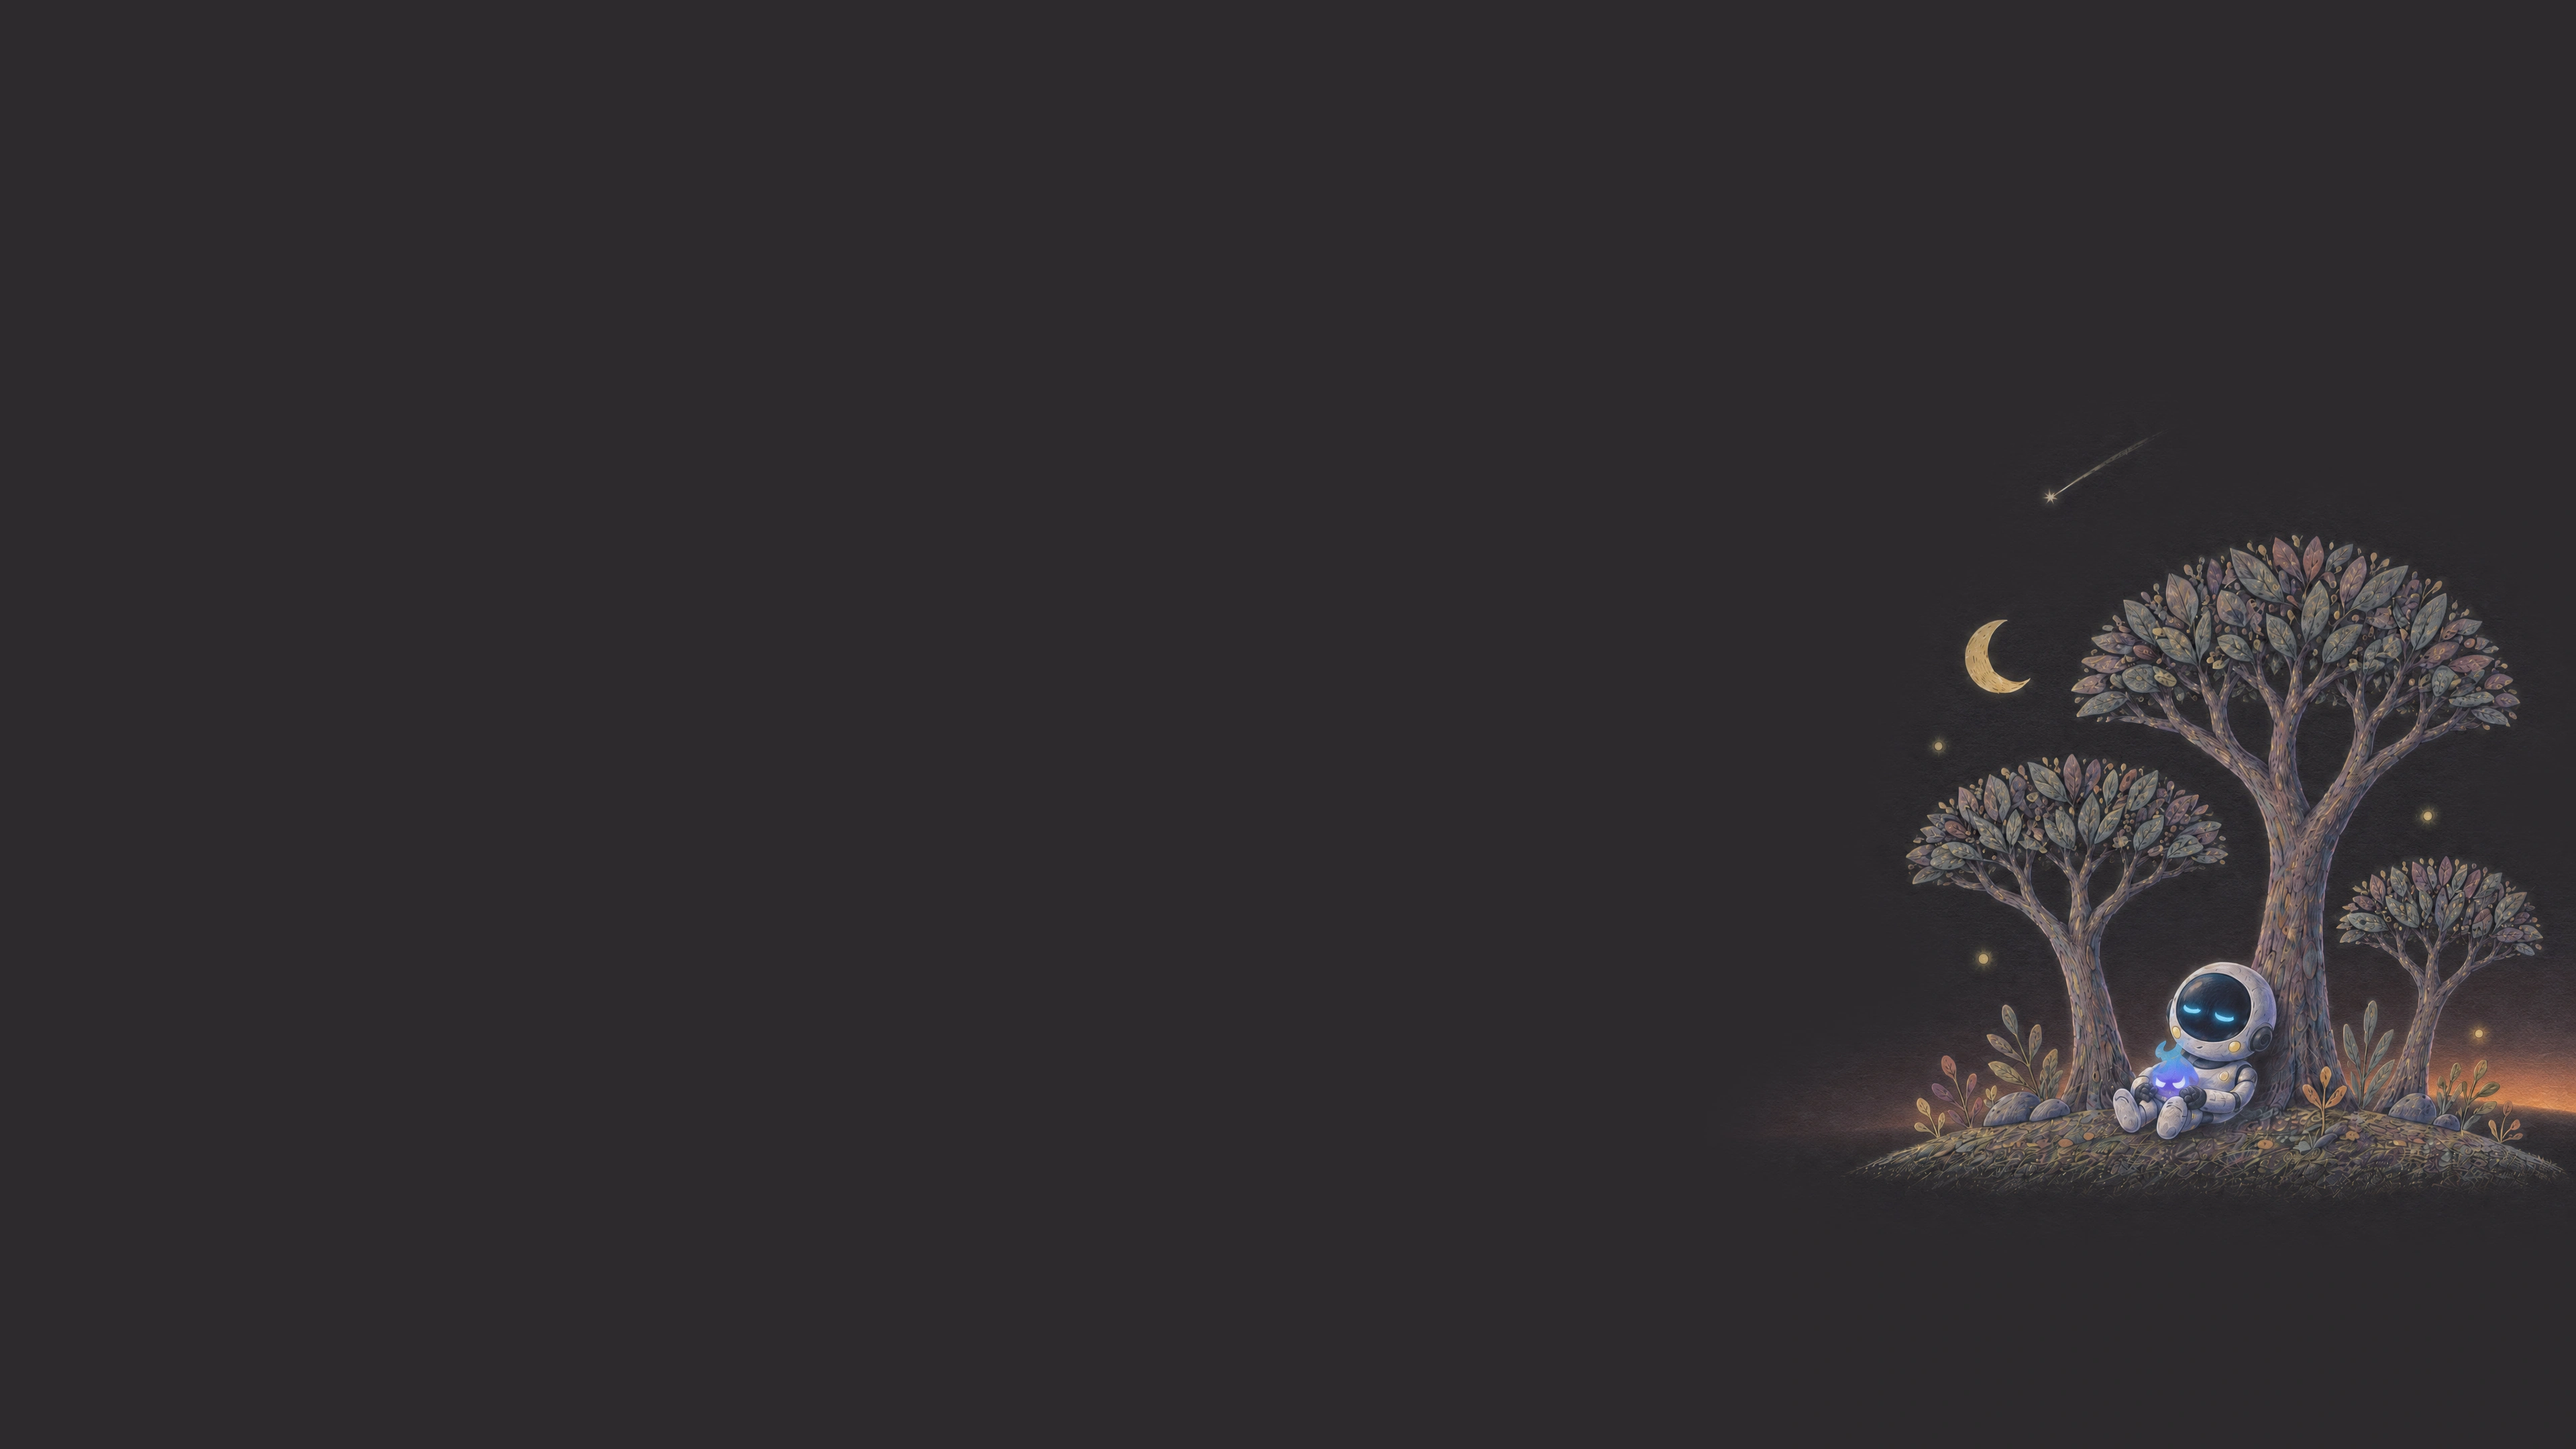
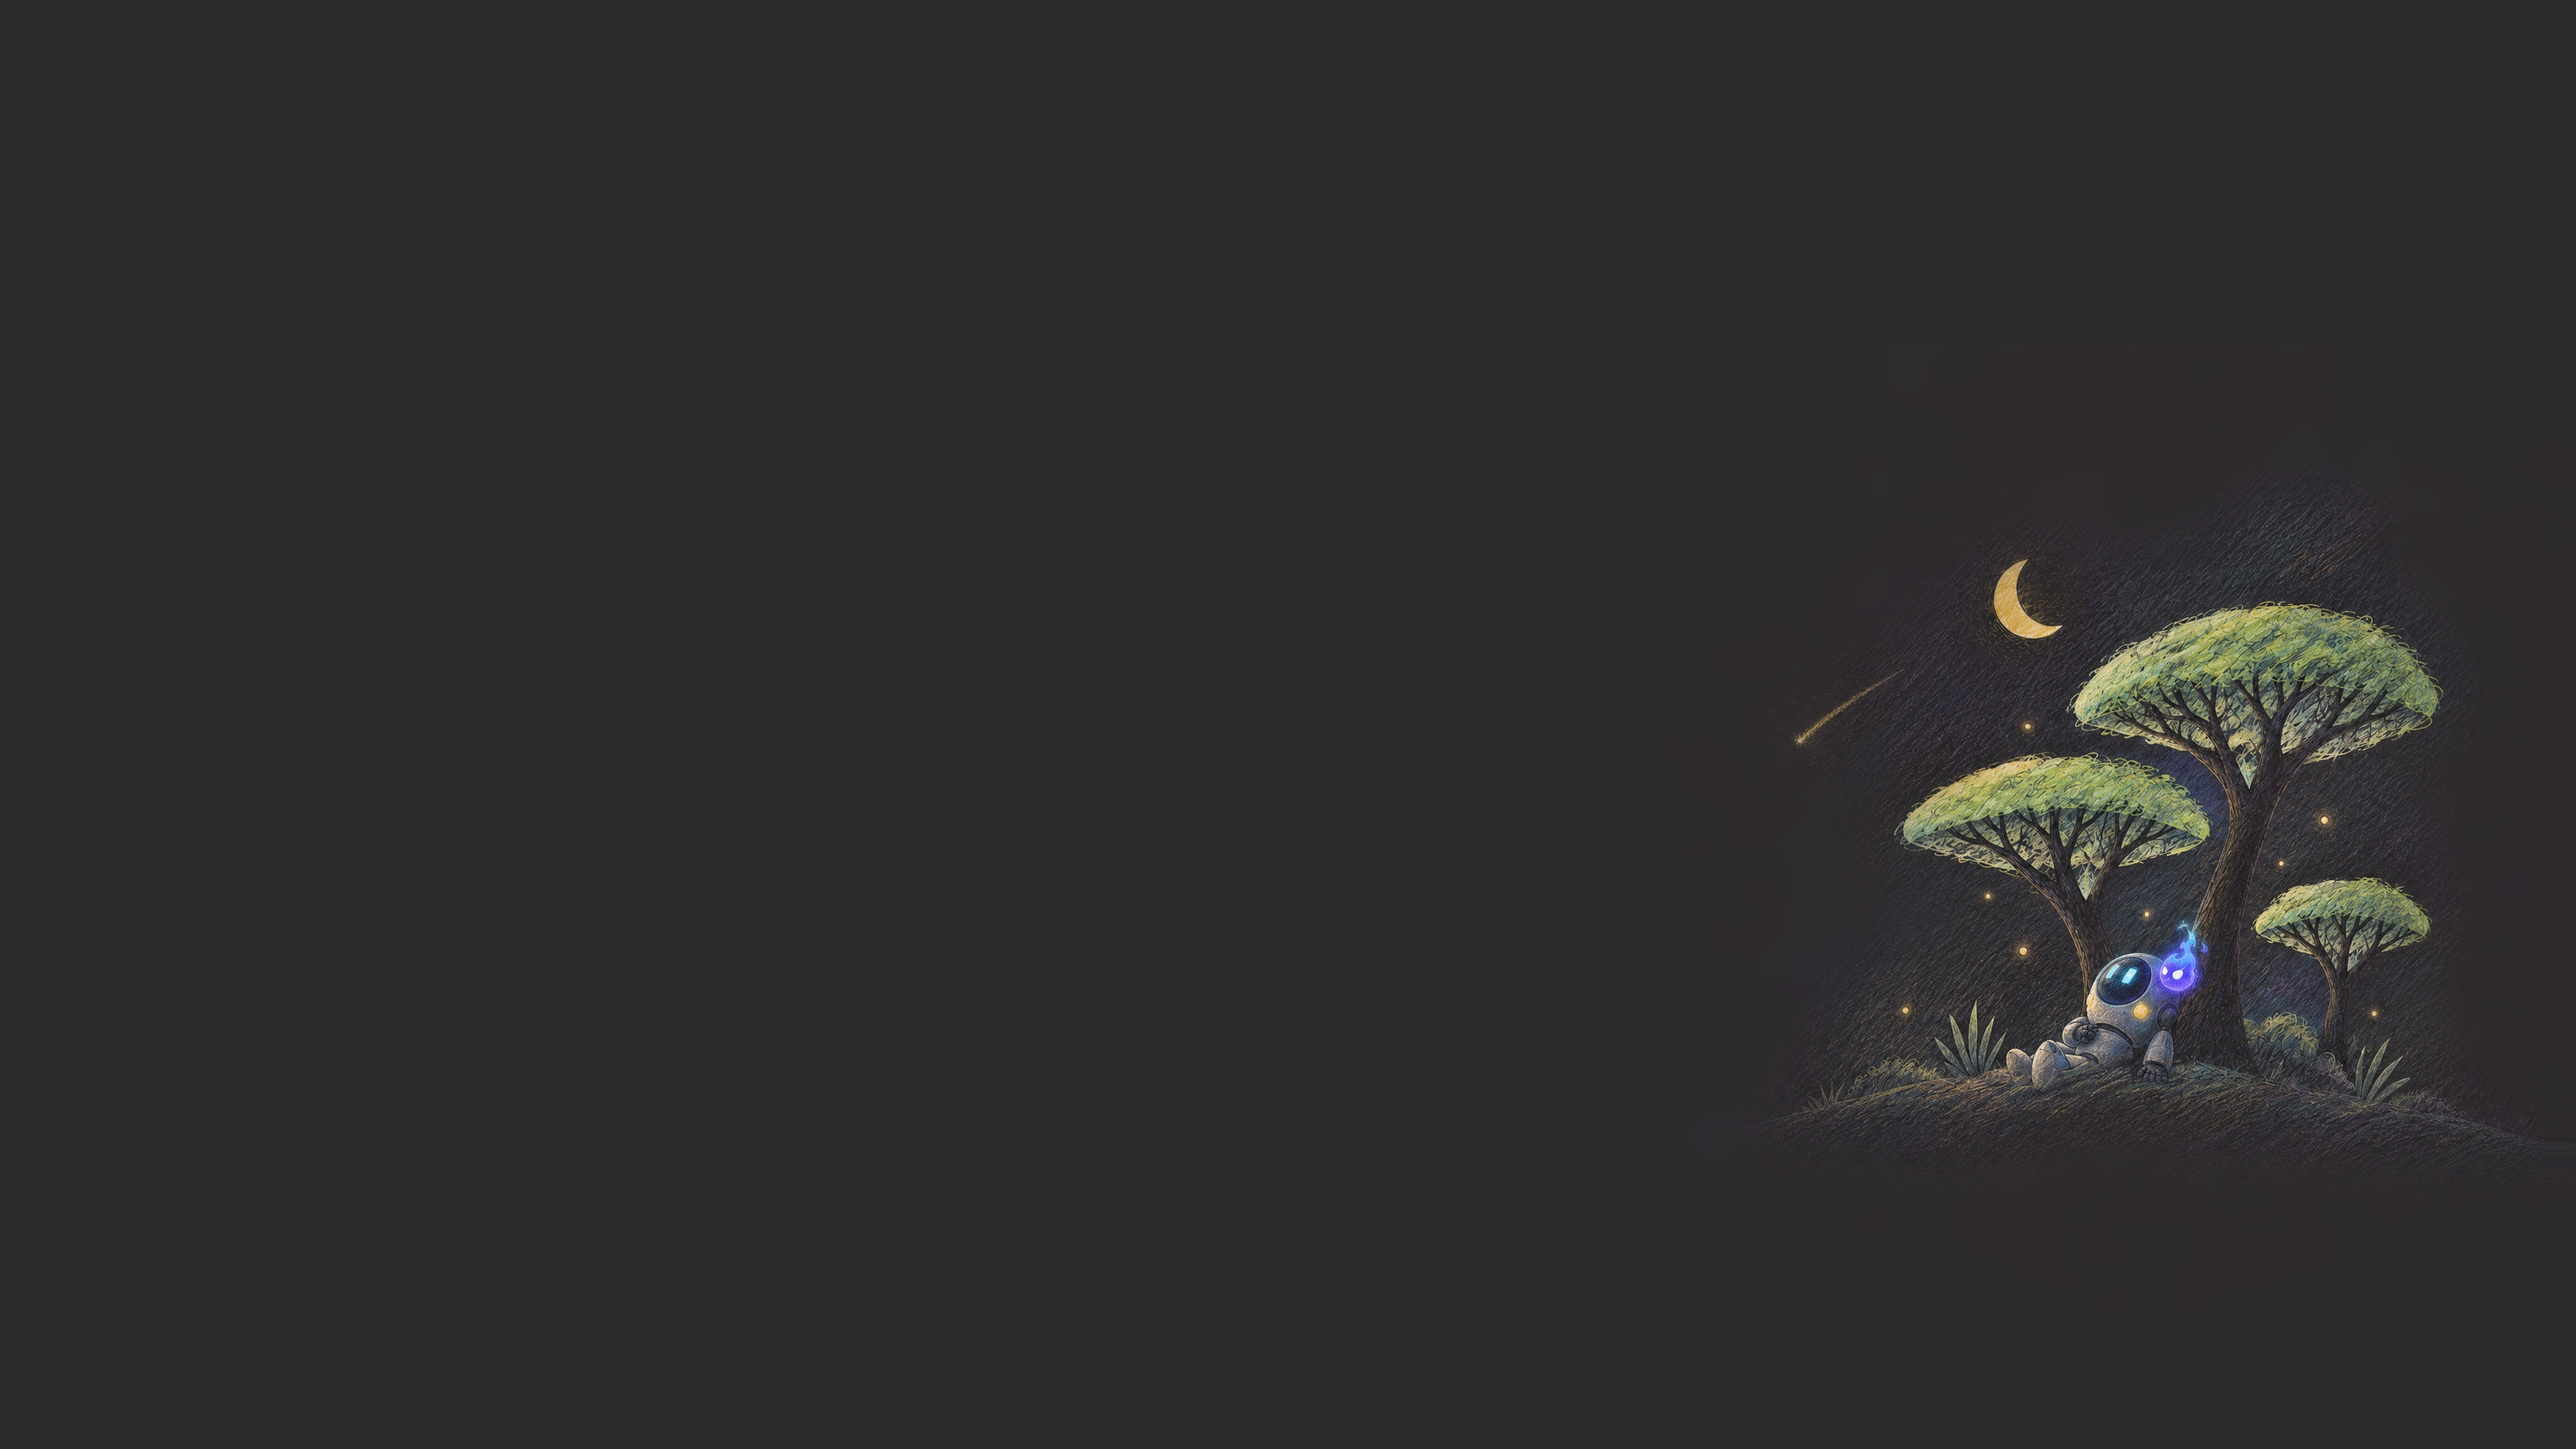
✨ feat(wallpaper): set Pululu stargazing in the grove
- ✨ Keep the original grove's pencil grain, moon and palette-matched leaves,
  which the earlier redrawn scene lost, and add only the characters and a
  shooting star
- 📝 Describe how the picture was made

Claude-Session: https://claude.ai/code/session_01KcMBmdTUYPsxUBktRW77dF

Changed region(s): [[0.7188, 0.3722, 1.0, 0.8375]]

diff --git a/README.md b/README.md
@@ -1,6 +1,6 @@
 # Monokai Nightfall for Omarchy
 
-![Monokai Nightfall on Omarchy: Neovim, a terminal and btop beside the default wallpaper of Pululu dozing in the grove](screenshots/desktop.webp)
+![Monokai Nightfall on Omarchy: Neovim, a terminal and btop beside the default wallpaper of Pululu stargazing in the grove](screenshots/desktop.webp)
 
 Monokai Nightfall is an unofficial Omarchy theme, installed as
 `monokai-nightfall`. It uses the modern [Monokai Pro](https://monokai.pro/)
@@ -76,10 +76,11 @@ run the tests.
 The wallpapers in `backgrounds/` were generated with Codex image generation
 from the palette above. The coloured-pencil grove and horizon were then
 blended into a flat `#2d2a2e` outside the scene with ImageMagick, so they run
-seamlessly behind windows. The default wallpaper, `1-shooting-star.webp`, shows
-the robot Pululu dozing against a tree at first light, under a shooting star,
-while the flame spirit Spark sleeps in its lap. It was drawn at 2560×1440 with
-OpenAI's `gpt-image-2` from an earlier Codex scene, colour-matched to the
-grove's palette, blended into the same flat `#2d2a2e` and placed at its native
-size on a 3840×2160 sheet of that colour, so the scene stays sharp and small. Monokai Nightfall is not affiliated with or
-endorsed by Monokai, the maker of Monokai Pro.
+seamlessly behind windows. The default wallpaper, `1-shooting-star.webp`, is
+that grove with the robot Pululu lounging against the middle tree to watch a
+shooting star, while the flame spirit Spark sits on its shoulder. OpenAI's
+`gpt-image-2` drew the characters and the star into the grove, which was then
+redrawn at 2560×1440 with its colours locked to the original drawing. It sits
+at its native size on a 3840×2160 sheet of `#2d2a2e`, so the scene stays sharp
+and small. Monokai Nightfall is not affiliated with or endorsed by Monokai, the
+maker of Monokai Pro.
